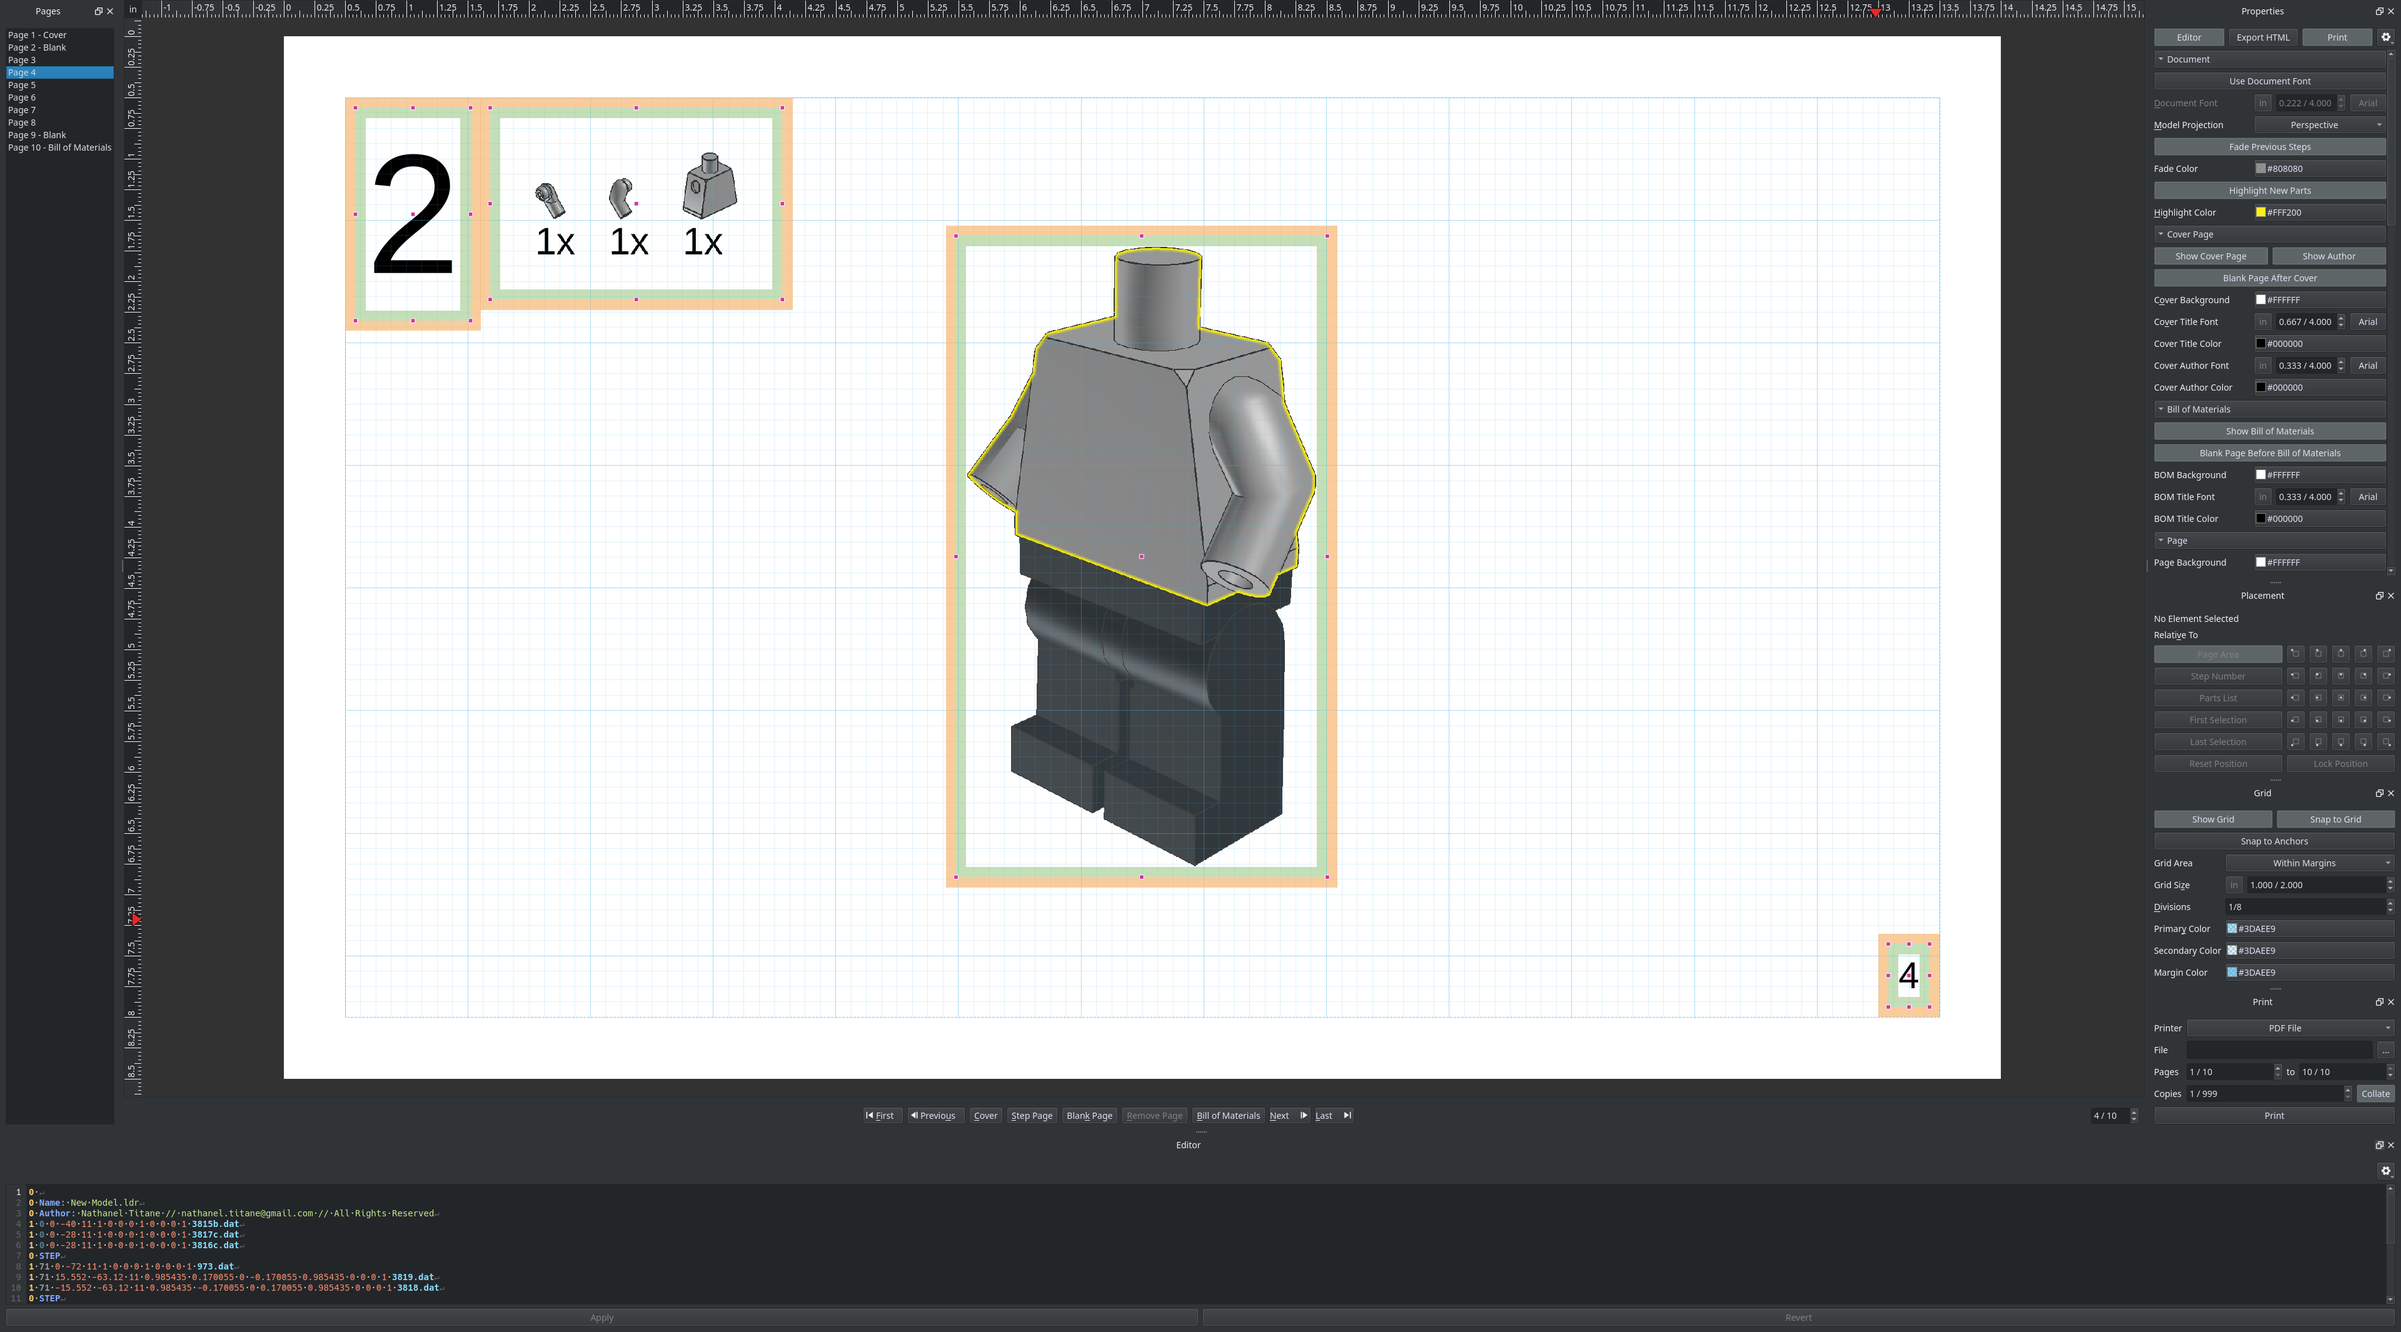
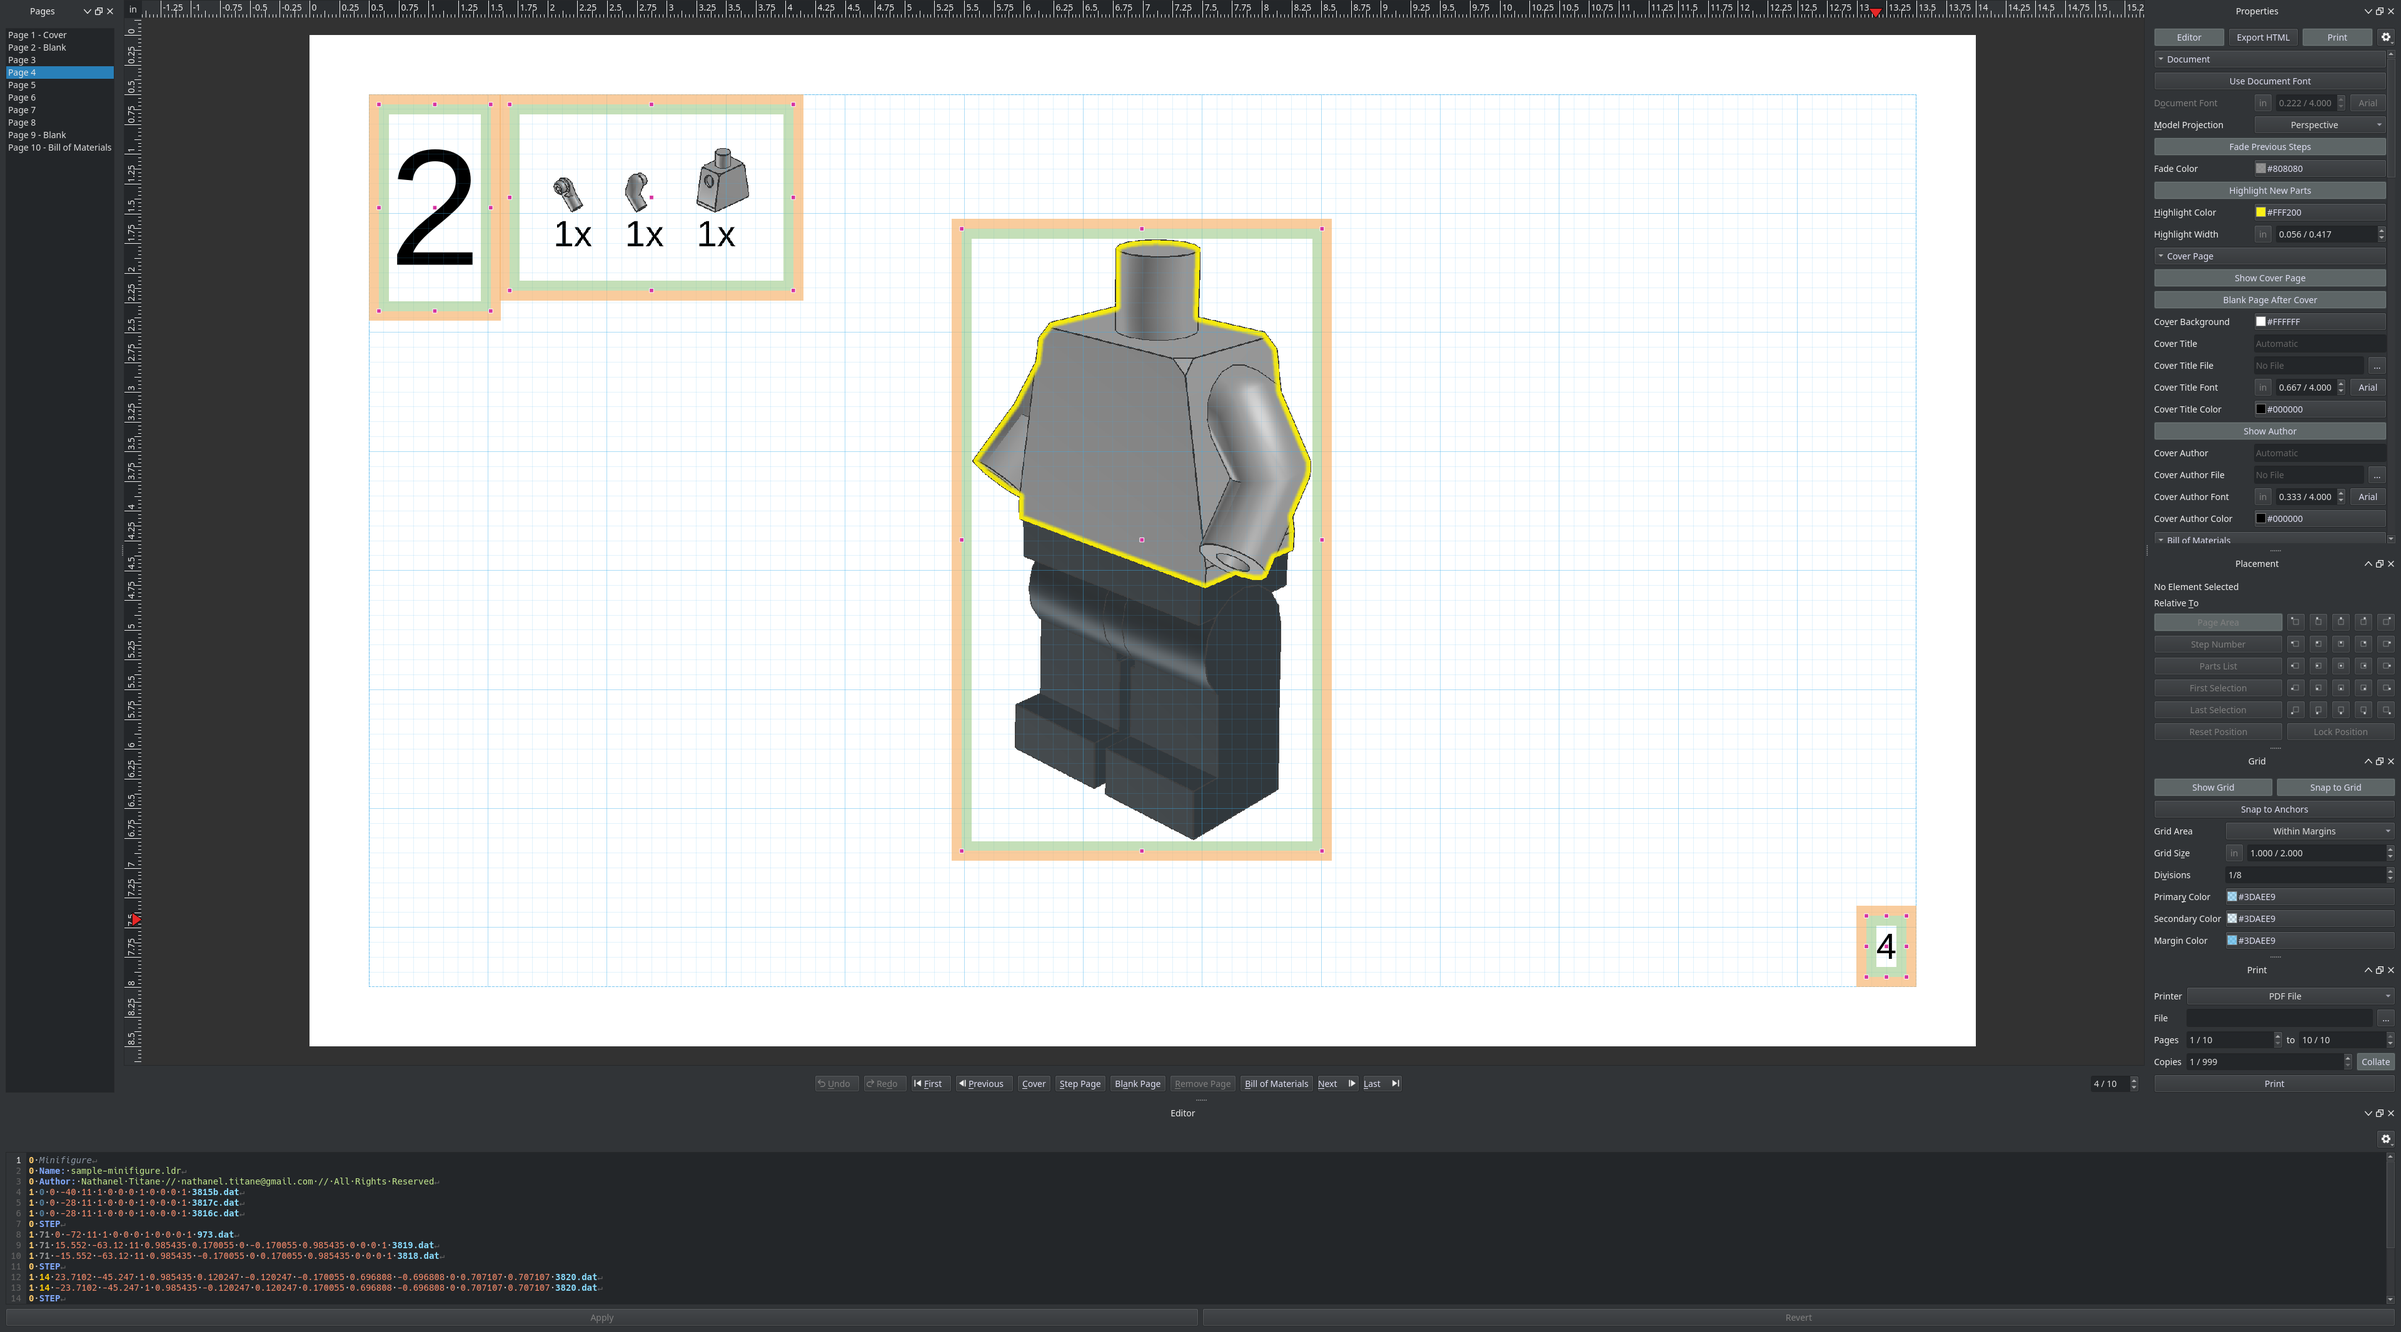
Code & Features Update

diff --git a/index.html b/index.html
@@ -1134,25 +1134,25 @@
 			<p class="lead">File &gt; Instructions lays the <a href="#steps">steps</a> out on pages with a cover, parts lists and a bill of materials. Every page element can be styled and placed, and everything is saved in the model file as !SW INSTRUCTION <a href="#meta">meta</a> commands.</p>
 
 			<div class="gallery three">
-				<figure style="--width-image: 2728; --height-image: 1574">
+				<figure style="--width-image: 2475; --height-image: 1428">
 					<button class="shot" data-full="resources/images/instructions-feature-cover-page.png" aria-label="Enlarge Cover page">
-						<img src="resources/images/instructions-feature-cover-page.png" alt="Cover page" width="2728" height="1574" loading="lazy">
+						<img src="resources/images/instructions-feature-cover-page.png" alt="Cover page" width="2475" height="1428" loading="lazy">
 					</button>
 
 					<figcaption>Cover page</figcaption>
 				</figure>
 
-				<figure style="--width-image: 2551; --height-image: 1472">
+				<figure style="--width-image: 2475; --height-image: 1428">
 					<button class="shot" data-full="resources/images/instructions-feature-step-page.png" aria-label="Enlarge Step page">
-						<img src="resources/images/instructions-feature-step-page.png" alt="Step page" width="2551" height="1472" loading="lazy">
+						<img src="resources/images/instructions-feature-step-page.png" alt="Step page" width="2475" height="1428" loading="lazy">
 					</button>
 
 					<figcaption>Step page</figcaption>
 				</figure>
 
-				<figure style="--width-image: 2551; --height-image: 1472">
+				<figure style="--width-image: 2475; --height-image: 1428">
 					<button class="shot" data-full="resources/images/instructions-feature-bill-of-materials.png" aria-label="Enlarge Bill of materials">
-						<img src="resources/images/instructions-feature-bill-of-materials.png" alt="Bill of materials" width="2551" height="1472" loading="lazy">
+						<img src="resources/images/instructions-feature-bill-of-materials.png" alt="Bill of materials" width="2475" height="1428" loading="lazy">
 					</button>
 
 					<figcaption>Bill of materials</figcaption>
@@ -1160,16 +1160,16 @@
 			</div>
 
 			<ul class="points">
+				<li><b>Pages.</b> Instructions get a cover with the title and author, a list of every part, and as many steps per page as you want, filled row by row or column by column, each page with its own background. Titles and notices take your own text or a text file. The finished model can fill the room left after the last step, with its own border and margin.</li>
 				<li><b>Elements.</b> Every page element, like page numbers or the parts list, can have its own colors, fonts, border, rounded corners and background. Notices and pointers draw attention to parts and steps.</li>
 				<li><b>Editor, Export HTML and Print.</b> An Editor panel to read and edit the model file text, whose height snaps to whole lines so no line is ever cut off, Export HTML for the instruction pages, and a built-in Print panel.</li>
+				<li><b>Style.</b> Choose the font, how steps are divided, with dividers that get their own margins and rounded ends, how big and how the model is drawn, and how the parts list looks and is sorted.</li>
+				<li><b>Page bar.</b> Undo and redo changes, turn the instruction pages, jump to the cover or the bill of materials, type a page number, and insert or remove blank pages and empty steps.</li>
 				<li><b>Placement.</b> Drag every page element <a href="#where">where</a> you want it, or lock it in place. Elements snap to a page grid, or to the edges and centers of the page and the other elements.</li>
-				<li><b>Pages.</b> Instructions get a cover with the title and author, a list of every part, and as many steps per page as you want, each page with its own background.</li>
-				<li><b>Page bar.</b> Turn the instruction pages, jump to the cover or the bill of materials, type a page number, and insert or remove blank pages and empty steps.</li>
 				<li><b>Element inspector.</b> Like a web browser&#x27;s inspector, it shows the space around and inside every page element, so you can line things up. It never prints.</li>
 				<li><b>Rulers.</b> Rulers along the page measure it in your units, show the margins, and follow the pointer with a small arrow.</li>
-				<li><b>Style.</b> Choose the font, how steps are divided, how the model is drawn, and how the parts list looks and is sorted.</li>
+				<li><b>Step images.</b> Parts new to each step are outlined, in the width and color you pick, and the earlier ones fade.</li>
 				<li><b>Page setup.</b> Paper and screen presets, metric or imperial units, margins and orientation.</li>
-				<li><b>Step images.</b> Parts new to each step are outlined and the earlier ones fade.</li>
 			</ul>
 
 			<div class="gallery scroll">
@@ -1189,9 +1189,9 @@
 					<figcaption>Page Setup</figcaption>
 				</figure>
 
-				<figure style="--width-image: 410; --height-image: 930">
+				<figure style="--width-image: 410; --height-image: 876">
 					<button class="shot" data-full="resources/images/instructions-widget-properties.png" aria-label="Enlarge Properties">
-						<img src="resources/images/instructions-widget-properties.png" alt="Properties" width="410" height="930" loading="lazy">
+						<img src="resources/images/instructions-widget-properties.png" alt="Properties" width="410" height="876" loading="lazy">
 					</button>
 
 					<figcaption>Properties</figcaption>
@@ -1205,9 +1205,9 @@
 					<figcaption>Placement</figcaption>
 				</figure>
 
-				<figure style="--width-image: 410; --height-image: 332">
+				<figure style="--width-image: 410; --height-image: 328">
 					<button class="shot" data-full="resources/images/instructions-widget-grid.png" aria-label="Enlarge Grid">
-						<img src="resources/images/instructions-widget-grid.png" alt="Grid" width="410" height="332" loading="lazy">
+						<img src="resources/images/instructions-widget-grid.png" alt="Grid" width="410" height="328" loading="lazy">
 					</button>
 
 					<figcaption>Grid</figcaption>
@@ -1221,9 +1221,9 @@
 					<figcaption>Element margins, padding and anchors</figcaption>
 				</figure>
 
-				<figure style="--width-image: 278; --height-image: 303">
+				<figure style="--width-image: 960; --height-image: 561">
 					<button class="shot" data-full="resources/images/instructions-window-notice.png" aria-label="Enlarge Add Notice">
-						<img src="resources/images/instructions-window-notice.png" alt="Add Notice" width="278" height="303" loading="lazy">
+						<img src="resources/images/instructions-window-notice.png" alt="Add Notice" width="960" height="561" loading="lazy">
 					</button>
 
 					<figcaption>Add Notice</figcaption>
@@ -2039,6 +2039,7 @@ studworx/tools/studworx-install [prefix] [build directory]</code></pre>
 					<li>Instructions: the highlight color keeps the opacity you pick, no longer held between 85 and 95 percent</li>
 					<li>Instructions: Final Border, Final Border Color and Final Margin in <a href="#steps">Steps</a> per Page frame the final model area and keep it away from the steps and page margins, none by default</li>
 					<li>Translations: the new highlight and final model settings read right in all nine languages</li>
+					<li>Site: the Instructions, <a href="#rendering">Rendering</a>, <a href="#views">Views</a> and <a href="#interface">Interface</a> images are retaken to show the panel fold arrows and the new instructions settings, and the Instructions features name Step Flow, the final model, dividers, Model Size, Highlight Width, text <a href="#files">files</a> and Undo and Redo</li>
 				</ul>
 			</details>
 
@@ -2046,11 +2047,11 @@ studworx/tools/studworx-install [prefix] [build directory]</code></pre>
 				<summary>2026-11-16</summary>
 
 				<ul>
-					<li>Site: every footer button has its own logo, with tools, <a href="#files">files</a> and steps logos for <a href="#toolbars">Toolbars</a>, Files and Steps, GitHub and PayPal logos for GitHub and Donate, and L²CU in green like on MechaBlocks</li>
+					<li>Site: every footer button has its own logo, with tools, files and steps logos for <a href="#toolbars">Toolbars</a>, Files and Steps, GitHub and PayPal logos for GitHub and Donate, and L²CU in green like on MechaBlocks</li>
 					<li>Site: the page styles live in their own files under resources/css, and resources/css/logo.css picks each section&#x27;s logo, so a new or swapped logo shows without rebuilding the page</li>
 					<li>Translations: Traditional Chinese has about 1,900 more and better translations, from yoyomaimai</li>
 					<li>Translations: Traditional Chinese reads right for Startup, Origin, Author Line, Hip Accessory and Filter Parts</li>
-					<li>Site: <a href="#interface">Interface</a> covers the window and <a href="#panels">Panels</a> the panels, with split <a href="#views">views</a> told once and showing or hiding panels moved to Panels</li>
+					<li>Site: Interface covers the window and <a href="#panels">Panels</a> the panels, with split views told once and showing or hiding panels moved to Panels</li>
 					<li>Translations: every line in all nine languages was reviewed, the missing ones translated, and each language uses one word per meaning, the same words as its menus</li>
 					<li>Translations: snap sizes read as studs, plates and bricks in every language, and each property row letter matches its row name</li>
 					<li>Translations: Yes, No and the other dialog buttons follow the language picked in StudWorx</li>
@@ -2073,8 +2074,6 @@ studworx/tools/studworx-install [prefix] [build directory]</code></pre>
 					<li>Instructions: the Steps per Page buttons show only their divider lines, the button is the page, one step per page shows a circle</li>
 					<li>Instructions: new part outlines on large step images no longer show seam lines</li>
 					<li>Instructions: Show Author sits on its own row</li>
-					<li>Instructions: Highlight Width sets the new part outline thickness, wide outlines stay solid, and the highlight color keeps the opacity you pick</li>
-					<li>Instructions: the final model area gets its own border and margin, none by default</li>
 				</ul>
 			</details>
 
@@ -2152,7 +2151,7 @@ studworx/tools/studworx-install [prefix] [build directory]</code></pre>
 					<li>Views: the X, Y and Z axis lines draw on their own, the Grid Origin Lines setting is gone, and the negative Z line shows only once parts go below the base grid</li>
 					<li>Views: the base grid starts at 2 × 2 studs and the height grids one brick high, and they grow past the parts by a Grid Margin in studs and a Height Margin in plates</li>
 					<li>Views: Split Horizontal, Split Vertical and Remove View no longer crash when the model view doesn&#x27;t have keyboard focus</li>
-					<li>Preferences: <a href="#rendering">Rendering</a>, Views and Interface sort their settings into clearer groups, the colors move to Interface, and color alpha is set in the color picker</li>
+					<li>Preferences: Rendering, Views and Interface sort their settings into clearer groups, the colors move to Interface, and color alpha is set in the color picker</li>
 					<li>Explode: the X, Y and Z spreads are multiples from 1.0 to 10.0 instead of percentages, and Explode is greyed out while every spread is 1.0</li>
 					<li>Keyframes: panel buttons are painted in the color theme and run the same commands as the Time toolbar, which gains Set Keys, Remove Keys, Play and Stop</li>
 					<li>Timeline: steps with animation keys list a Keys row per keyed object, and clicking an object in Keyframes or Timeline selects it in the model view</li>

diff --git a/SITE.md b/SITE.md
@@ -400,10 +400,10 @@ File > Instructions lays the steps out on pages with a cover, parts lists and a 
 ![Bill of materials](resources/images/instructions-feature-bill-of-materials.png)
 
 - **Page setup.** Paper and screen presets, metric or imperial units, margins and orientation.
-- **Page bar.** Turn the instruction pages, jump to the cover or the bill of materials, type a page number, and insert or remove blank pages and empty steps.
-- **Pages.** Instructions get a cover with the title and author, a list of every part, and as many steps per page as you want, each page with its own background.
-- **Style.** Choose the font, how steps are divided, how the model is drawn, and how the parts list looks and is sorted.
-- **Step images.** Parts new to each step are outlined and the earlier ones fade.
+- **Page bar.** Undo and redo changes, turn the instruction pages, jump to the cover or the bill of materials, type a page number, and insert or remove blank pages and empty steps.
+- **Pages.** Instructions get a cover with the title and author, a list of every part, and as many steps per page as you want, filled row by row or column by column, each page with its own background. Titles and notices take your own text or a text file. The finished model can fill the room left after the last step, with its own border and margin.
+- **Style.** Choose the font, how steps are divided, with dividers that get their own margins and rounded ends, how big and how the model is drawn, and how the parts list looks and is sorted.
+- **Step images.** Parts new to each step are outlined, in the width and color you pick, and the earlier ones fade.
 - **Placement.** Drag every page element where you want it, or lock it in place. Elements snap to a page grid, or to the edges and centers of the page and the other elements.
 - **Elements.** Every page element, like page numbers or the parts list, can have its own colors, fonts, border, rounded corners and background. Notices and pointers draw attention to parts and steps.
 - **Rulers.** Rulers along the page measure it in your units, show the margins, and follow the pointer with a small arrow.

diff --git a/NOTICE.md b/NOTICE.md
@@ -7,6 +7,7 @@
   - Instructions: the highlight color keeps the opacity you pick, no longer held between 85 and 95 percent
   - Instructions: Final Border, Final Border Color and Final Margin in Steps per Page frame the final model area and keep it away from the steps and page margins, none by default
   - Translations: the new highlight and final model settings read right in all nine languages
+  - Site: the Instructions, Rendering, Views and Interface images are retaken to show the panel fold arrows and the new instructions settings, and the Instructions features name Step Flow, the final model, dividers, Model Size, Highlight Width, text files and Undo and Redo
 
   </details>
 
@@ -40,8 +41,6 @@
   - Instructions: the Steps per Page buttons show only their divider lines, the button is the page, one step per page shows a circle
   - Instructions: new part outlines on large step images no longer show seam lines
   - Instructions: Show Author sits on its own row
-  - Instructions: Highlight Width sets the new part outline thickness, wide outlines stay solid, and the highlight color keeps the opacity you pick
-  - Instructions: the final model area gets its own border and margin, none by default
 
   </details>
 
